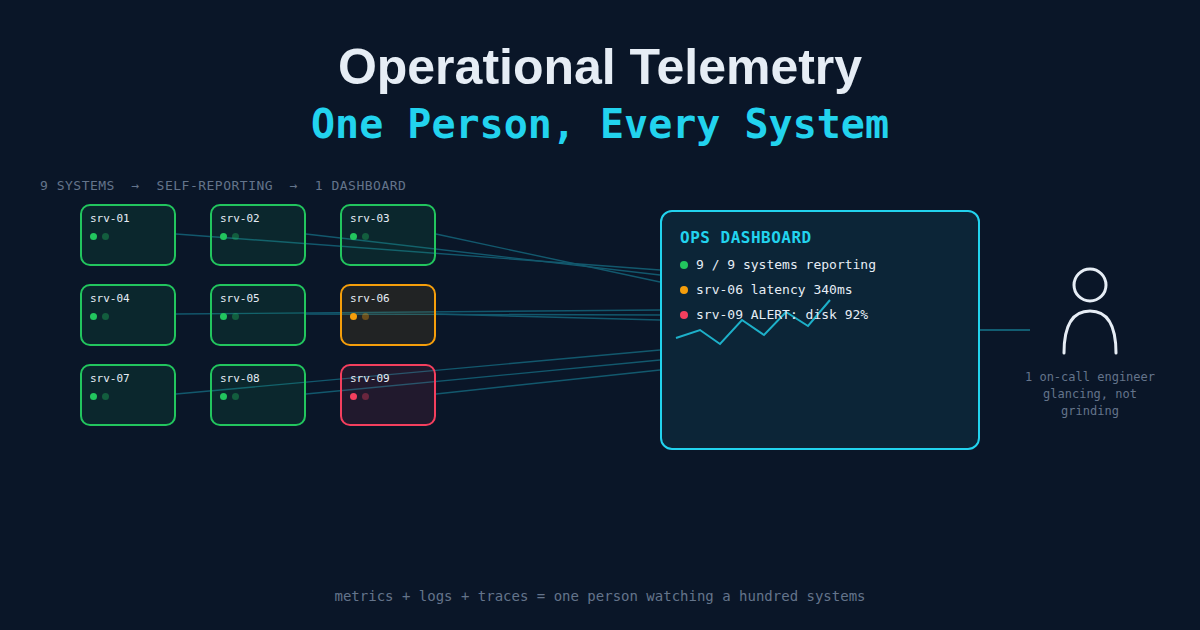
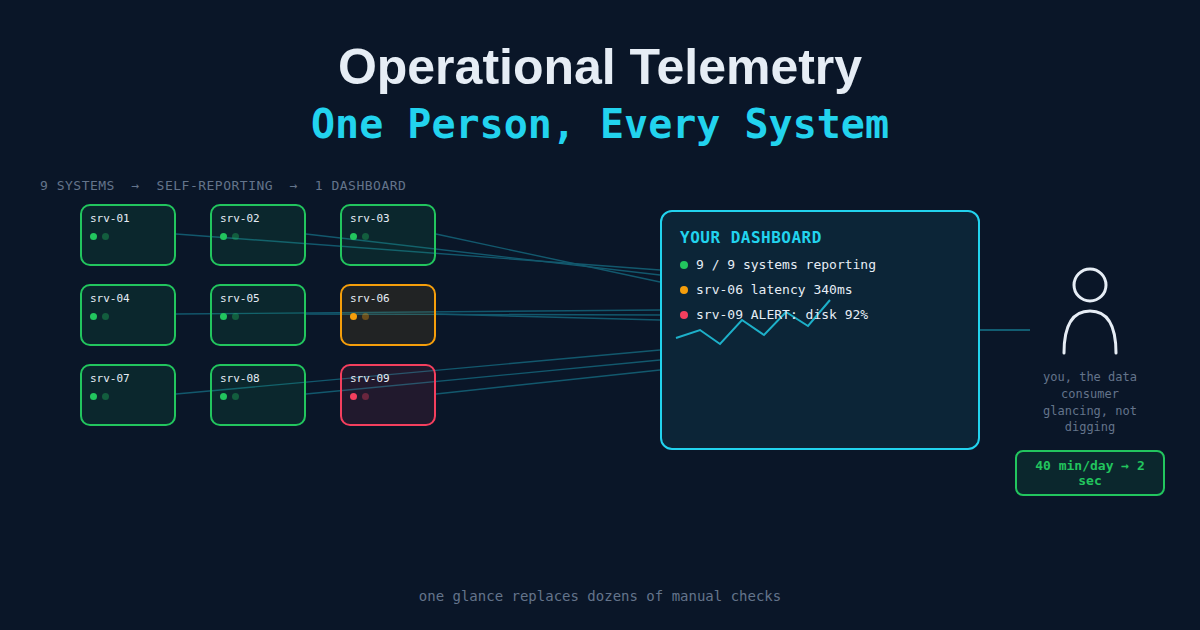
Reframe operational telemetry article around the data consumer
Rewrite the piece from the perspective of the person reading a
dashboard rather than the engineer instrumenting it, and quantify
the time savings (manual polling vs. a two-second glance). Update
the hero image to label the viewer as "the data consumer" and add
a 40 min/day -> 2 sec time-savings badge.

Changed region(s): [[0.8633, 0.573, 0.9558, 0.8143], [0.2775, 0.9349, 0.74, 0.9651], [0.555, 0.3619, 0.7092, 0.3921]]

diff --git a/src/content/blog/operational-telemetry-explained.md b/src/content/blog/operational-telemetry-explained.md
@@ -1,51 +1,53 @@
 ---
-title: 'Operational Telemetry, Explained in Plain English'
-description: 'What operational telemetry actually is, why it exists, and how it lets one person watch over systems that would otherwise take a whole team of eyeballs.'
+title: 'Operational Telemetry, Explained for the Person Reading the Dashboard'
+description: 'Why that little dashboard you check for two seconds a day exists — and how it lets one person keep tabs on far more systems than they could ever check by hand.'
 pubDate: 'Jul 14 2026'
 heroImage: '/blog-operational-telemetry.png'
 difficulty: 'low'
 tags: ['pipelines', 'collection']
 ---
 
-"Telemetry" sounds like rocket science — and honestly, it started out as exactly that. NASA used it to know what was happening inside a spacecraft without being inside the spacecraft. The same basic idea now runs quietly behind almost every app, website, and server you use. This article explains what it is, in plain terms, and why it's one of the highest-leverage things a small team (or a single person) can set up.
+You open a dashboard, glance at a row of green dots, and move on with your day. That two-second glance is the entire point of operational telemetry — and it's worth understanding what's happening behind it, because it's the reason you're not spending your morning pinging engineers or refreshing a status page and hoping.
+
+"Telemetry" sounds like rocket science — and honestly, it started out as exactly that. NASA used it to know what was happening inside a spacecraft without being inside the spacecraft. The same basic idea now runs quietly behind almost every dashboard, status page, and Slack alert you rely on. This article explains what it is, in plain terms, from the point of view of the person consuming it rather than the person building it.
 
 ## The One-Sentence Definition
 
 **Telemetry is data a system sends about itself, automatically, so a human doesn't have to go ask.**
 
-That's it. No AI, no magic — just a program that periodically reports "here's how I'm doing" to somewhere a person can see it later.
+That's it. No AI, no magic — just a program that periodically reports "here's how I'm doing" to somewhere a person can see it later. You, sitting on the receiving end, get the distilled version — a dashboard, a status badge, an alert — instead of raw logs, code, or a server you'd have to log into yourself.
 
-**Operational telemetry** is telemetry specifically about the health and behavior of running systems: is the server up? Is it slow? Are requests failing? Is the disk filling up? It's the difference between *what the business is doing* (sales, signups, revenue — that's analytics) and *whether the machinery is running correctly* (that's operations).
+**Operational telemetry** is telemetry specifically about the health and behavior of running systems: is the service up? Is it slow? Are requests failing? It's the difference between *what the business is doing* (sales, signups, revenue — that's analytics you consume for decisions) and *whether the machinery behind it is running correctly* (that's operations you consume for reassurance, or for a heads-up).
 
 ## The Analogy That Actually Sticks
 
-Think about a car dashboard. You don't pop the hood every red light to check the engine temperature, oil level, and battery voltage by hand. Sensors do that continuously and report the results to a small panel in front of you. Most of the time you glance at it for half a second and move on. Occasionally a warning light turns red, and *that's* your signal to actually look under the hood.
+Think about a car dashboard. As the driver, you don't pop the hood at every red light to check the engine temperature, oil level, and battery voltage by hand. Sensors do that continuously and report the results to a small panel in front of you. Most of the time you glance at it for half a second and move on. Occasionally a warning light turns red, and *that's* your signal to actually pay attention. You never had to learn how the sensor works — you just needed to trust that the light tells the truth.
 
-Operational telemetry is that dashboard, but for servers, applications, and pipelines instead of a car engine.
+Operational telemetry is that dashboard, but for the services, apps, and pipelines you depend on instead of a car engine.
 
-Or think of a hospital. One nurse can watch over a dozen patients at once because each bed has a monitor silently tracking heart rate, oxygen, and blood pressure — and it alarms the instant something crosses a dangerous threshold. Without those monitors, one nurse could maybe keep a close eye on one or two patients by physically checking on them constantly. The monitor is what makes "one person, many patients" possible at all.
+Or think of a hospital. One nurse can watch over a dozen patients at once because each bed has a monitor silently tracking heart rate, oxygen, and blood pressure — and it alarms the instant something crosses a dangerous threshold. The nurse isn't the one measuring blood pressure by hand every five minutes; the nurse is *consuming* a summary the monitor produces, and only steps in when the summary says something's wrong.
 
-That's the whole point of this article: **telemetry is what lets one person effectively watch over far more systems than they ever could by manually checking each one.**
+That's the whole point of this article: **telemetry is what lets one person — you — effectively keep watch over far more systems than you could ever check by hand, because a machine already did the checking and handed you the summary.**
 
-## The Three Basic Ingredients
+## What's Actually Behind the Dashboard You Look At
 
-Almost every telemetry setup, no matter how fancy the vendor name, is built from three simple ingredients:
+You'll rarely see this next part directly — it's built by whoever maintains the system — but it helps to know what's feeding the numbers you're glancing at:
 
 ### 1. Metrics — numbers over time
 
-A metric is a single number, tracked over time. CPU usage. Requests per second. Number of errors in the last minute. Cheap to store, cheap to graph, and great for spotting trends ("this has been climbing for two hours") or setting simple thresholds ("alert me if this goes above 90%").
+A metric is a single number, tracked over time. CPU usage. Requests per second. Number of errors in the last minute. This is almost always what a dashboard is showing you: a line going up, a percentage, a status dot. Cheap to graph, great for spotting trends at a glance.
 
 ### 2. Logs — the diary of events
 
-A log is a timestamped line of text describing something that happened. `2026-07-14 09:03:12 — payment failed for order #4471 — timeout connecting to bank API`. Metrics tell you *that* something is wrong; logs tell you *what* went wrong and give you the detail to actually debug it.
+A log is a timestamped line of text describing something that happened. `2026-07-14 09:03:12 — payment failed for order #4471 — timeout connecting to bank API`. You typically won't see raw logs unless something's already gone wrong and someone needs to dig in — a metric tells you *that* something is off; a log tells you *what* went wrong.
 
 ### 3. Traces — the story of one request
 
-A trace follows a single request as it travels through a system — say, from a website click, through an API, into a database, and back. In a simple one-server setup you may not need this. Once you have multiple services talking to each other, traces are what let you answer "which one of these five services is the slow one?" instead of guessing.
+A trace follows a single request as it travels through a system — from a click, through an API, into a database, and back. As a consumer you'll almost never look at one directly, but it's how the person behind the dashboard answers "which one of these five services is actually the slow one?" instead of guessing.
 
-Put together — metrics for "is something wrong," logs for "what exactly went wrong," traces for "where in the chain did it go wrong" — you get a system that reports on itself well enough that a human rarely has to go digging manually.
+Put together — metrics for "is something wrong," logs for "what exactly went wrong," traces for "where in the chain did it go wrong" — you get a system that reports on itself well enough that the only thing that ever reaches you is a clean, glanceable summary.
 
-## How the Data Actually Gets From the Server to Your Screen
+## How a Raw Signal Becomes the Number You See
 
 The flow is the same shape almost everywhere, even though the tool names differ:
 
@@ -53,11 +55,13 @@ The flow is the same shape almost everywhere, even though the tool names differ:
 1. INSTRUMENT  — code emits a metric, log line, or trace span
 2. COLLECT     — an agent or library ships that data somewhere central
 3. STORE       — a time-series database or log store holds onto it
-4. VISUALIZE   — a dashboard turns raw numbers into something readable
-5. ALERT       — a rule watches the data and pages a human when it crosses a line
+4. VISUALIZE   — a dashboard turns raw numbers into something readable   ← what you actually see
+5. ALERT       — a rule watches the data and pages a human when it crosses a line   ← or this
 ```
 
-A concrete, tiny example. Imagine a script that checks whether your website is responding:
+Steps 1 through 3 happen entirely behind the scenes. As a consumer, your entire relationship with telemetry is steps 4 and 5 — a chart you glance at, or a notification that lands in your inbox.
+
+Here's a tiny, concrete example of what's running underneath a "system status: healthy" badge you might see on a page:
 
 ```python
 import requests
@@ -81,28 +85,37 @@ result = check_health("https://lowhangingdata.com")
 print(result)
 ```
 
-Run that once every minute, ship the output to a place that stores it, plot `latency_ms` and `healthy` over time, and you already have the core of operational telemetry — no fancy platform required. Everything vendors like Datadog, Grafana, or New Relic sell you is a more polished, more scalable version of exactly this loop.
+Run that once every minute, store the output, and plot `healthy` over time — that single green/red dot is the entire output of the loop above, quietly running thousands of times so you never have to run it yourself.
 
-## Why This Is a Massive Force Multiplier
+## Why This Is a Massive Force Multiplier — For You
 
-Here's the part that matters most for anyone running (or paying for) a small team.
+Here's the part that matters most, and it's about your time, not the engineer's.
 
-**Without telemetry**, "knowing if things are okay" means a person actively checking: logging into a server, running a command, refreshing a page, asking a customer if something feels slow. That doesn't scale. Ten servers means ten checks. A hundred servers means it's someone's whole job, and they still miss things between checks.
+**Without telemetry**, knowing if things are okay means *you* actively checking: messaging someone, refreshing a page, waiting for a status email, or just finding out the hard way when something breaks. That doesn't scale. Ten systems you depend on means ten things to keep track of in your head. A hundred means you've effectively lost the ability to know, and you're only ever reacting after the fact.
 
-**With telemetry**, the checking happens automatically, continuously, for free (in terms of human time), across every system at once. The human's job shifts from *"constantly go looking for problems"* to *"glance at a dashboard, and get tapped on the shoulder when something's actually wrong."* That's the shift from checking one patient at a time to one nurse watching twelve monitors.
+**With telemetry**, the checking happens automatically, continuously, for free — and it's already been distilled down to the two seconds it takes you to glance at a dashboard. Your job shifts from *"go find out if something's wrong"* to *"notice when something taps you on the shoulder."* That's the shift from a nurse checking one patient at a time to one nurse calmly watching twelve monitors, confident the monitors will speak up.
 
-This is why a single on-call engineer can reasonably be responsible for a fleet of hundreds of servers, and why a solo indie developer can run a production SaaS product without staring at logs all day. It's not that the work of monitoring disappeared — it's that a machine does the *watching*, and a human only gets involved for the *deciding*.
+### Put a number on it
 
-## A Few Practical Rules of Thumb
+Say you're keeping tabs on 20 things you care about — pipelines, services, whatever feeds your reports. Manually checking each one — opening a tool, running a query, asking someone "is this still working?" — might take even a lean 2 minutes apiece. That's roughly 40 minutes a day just to *find out nothing's wrong*, before you've done any actual work with the results. Do that daily and it's over 170 hours a year spent looking, not doing.
 
-- **Alert on symptoms, not causes.** Alert when users are actually affected ("error rate is up," "latency is up"), not on every internal wobble ("CPU hit 80% for 10 seconds"). Too many low-value alerts trains people to ignore all of them — a problem operations teams call *alert fatigue*.
-- **Start with the golden signals.** For almost any service, four metrics cover 80% of what you need: **latency** (how slow), **traffic** (how much load), **errors** (how much is failing), and **saturation** (how close to capacity). Instrument those before anything fancier.
-- **Retention doesn't need to be forever.** Detailed metrics for the last 30 days, summarized trends for a year — you rarely need millisecond-level detail from two years ago.
-- **A dashboard nobody looks at isn't telemetry, it's decoration.** The goal isn't to collect data; it's to make problems visible to a human fast enough that they can act before it's a crisis.
+A dashboard fed by telemetry collapses that to the same two-second glance whether you're watching 5 systems or 500 — the check time doesn't scale with how much you're responsible for, because a machine is doing the checking continuously in the background instead of you doing it in bursts. The 40 minutes doesn't get *faster*, it gets **deleted**, and it's replaced by the rare, well-timed alert that only interrupts you when something actually needs a human. That gap — hours of manual polling turned into seconds of glancing — is the entire economic case for telemetry.
+
+This is why one person can reasonably keep an eye on the health of a fleet of systems, or a whole product's worth of dependencies, without being an engineer themselves. The work of monitoring didn't disappear — it just got moved off your plate and onto the dashboard, and the time it used to cost you got moved back into your day.
+
+## How to Read a Dashboard Like Someone Who Understands It
+
+A few habits that make you a sharper consumer of telemetry, even with zero engineering background:
+
+- **A green dot means "within the expected range," not "perfect."** Telemetry reports against thresholds someone set. It's a useful signal, not a guarantee.
+- **Look at the trend, not just the snapshot.** A metric climbing steadily for two hours is worth noticing even if it hasn't crossed into "red" yet — you're catching the story before the alert has to.
+- **One red dot among ten green ones is still worth ten seconds.** That's the whole system working as intended: it's surfacing the one thing that needs a human, not burying it.
+- **Know the difference between "the business is fine" and "the system is fine."** Revenue can be up while the checkout service is quietly erroring for 2% of users. Operational telemetry and business metrics answer different questions — don't assume one covers the other.
+- **A dashboard nobody looks at isn't telemetry, it's decoration.** The value only exists the moment a human actually glances at it and can act faster because of what they saw.
 
 ## The Takeaway
 
-Operational telemetry is just a system reporting on its own health so a person doesn't have to go check it by hand. Metrics tell you something's wrong, logs tell you what, traces tell you where. Wire those into a dashboard and some alert rules, and one person can genuinely keep watch over an entire fleet of systems — the same way one nurse, with the right monitors, can watch over a ward full of patients instead of one bed at a time.
+Operational telemetry is just a system reporting on its own health so that you, the person who needs the answer, don't have to go dig for it yourself. Metrics tell you something's wrong, logs tell you what, traces tell you where — but all of that machinery exists so that what actually reaches you is a clean dot on a dashboard or a single well-timed alert. That's what lets one person genuinely keep watch over an entire fleet of systems: not by checking harder, but by trusting a summary someone else built to do the checking for them.
 
 ## Next Steps
 